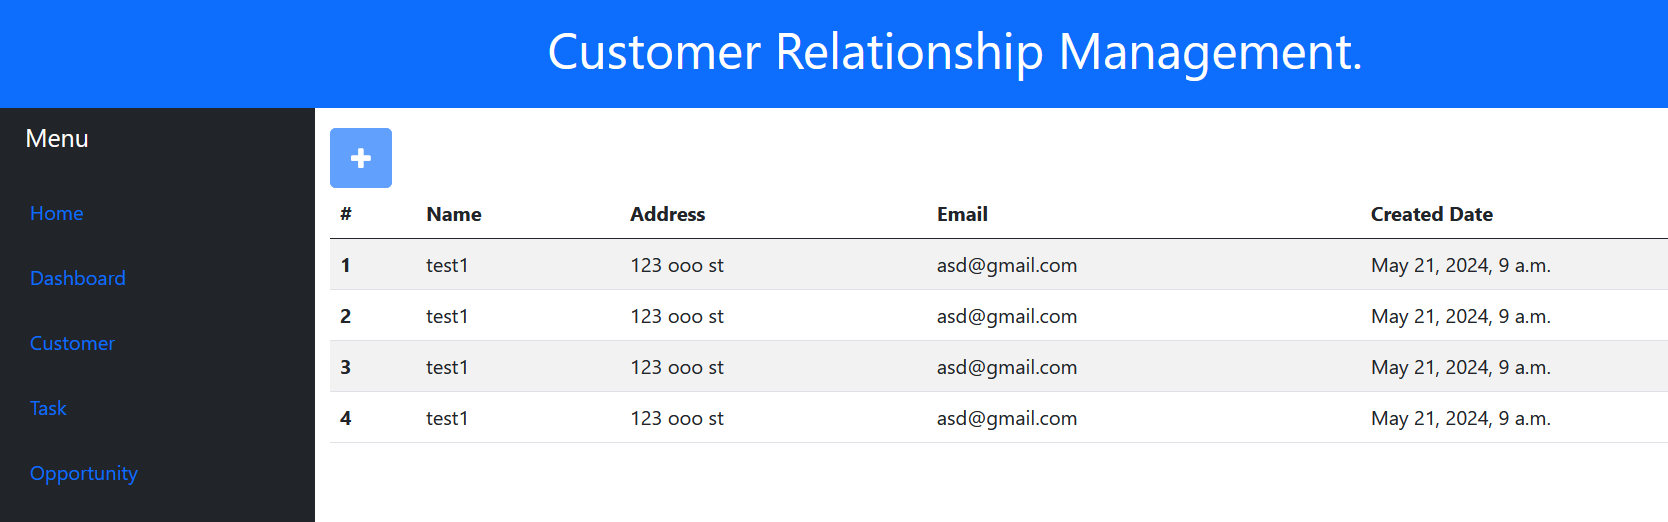
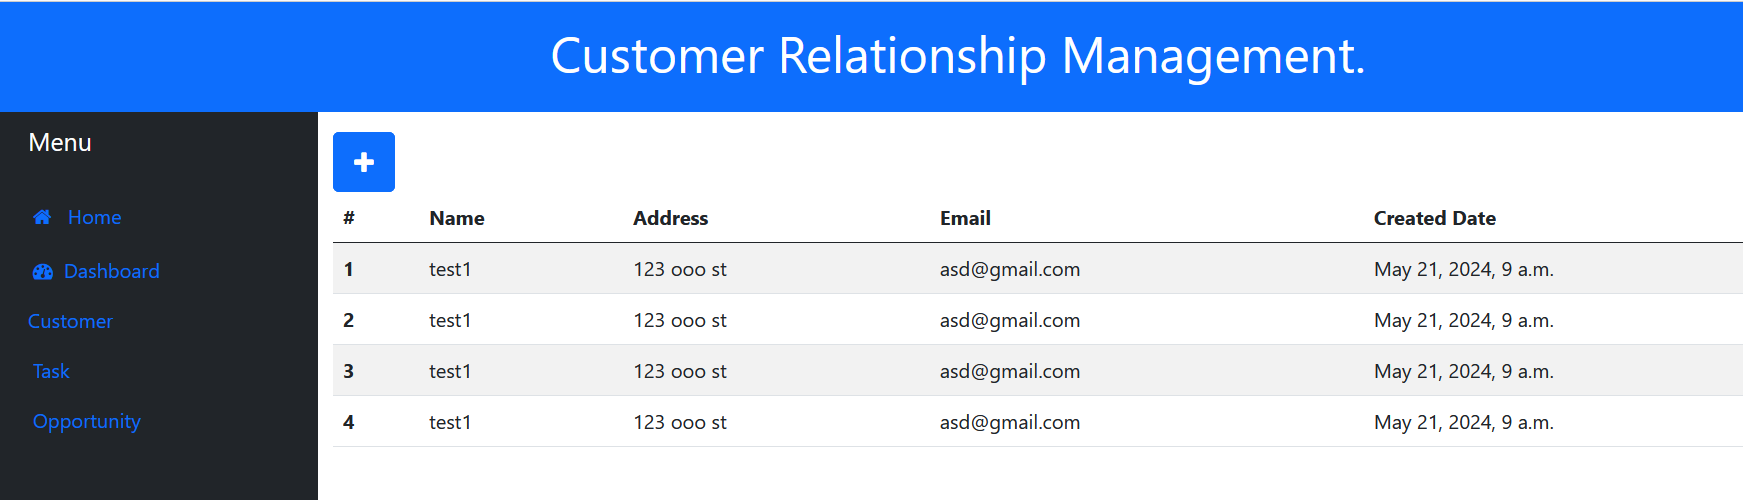
update

diff --git a/README.md b/README.md
@@ -305,30 +305,25 @@ Run the server and open url http://localhost:8000/admin
   <li class="nav-item">
     <a href="#" class="nav-link align-middle px-0">
       <i class="fs-4 bi-house"></i>
-      <span class="ms-1 d-none d-sm-inline">Home</span>
+      <span class="ms-1 d-none d-sm-inline"><i class="fa fa-home" aria-hidden="true"></i> &nbsp; Home</span>
     </a>
   </li>
   <li class="nav-item">
     <a href="/dashboard" class="nav-link align-middle px-0">
-      <i class="fs-4 bi-house"></i>
-      <span class="ms-1 d-none d-sm-inline">Dashboard</span>
+      <span class="ms-1 d-none d-sm-inline"><i class="fa fa-tachometer" aria-hidden="true"></i>&nbsp;
+        Dashboard</span>
     </a>
   </li>
   <li class="nav-item">
-    <a href="/customer" class="nav-link align-middle px-0">
-      <i class="fs-4 bi-house"></i>
-      <span class="ms-1 d-none d-sm-inline">Customer</span>
-    </a>
+    <a href="/customer" class="nav-link align-middle px-0">Customer</a>
   </li>
   <li class="nav-item">
     <a href="#" class="nav-link align-middle px-0">
-      <i class="fs-4 bi-house"></i>
       <span class="ms-1 d-none d-sm-inline">Task</span>
     </a>
   </li>
   <li class="nav-item">
     <a href="/opportunity" class="nav-link align-middle px-0">
-      <i class="fs-4 bi-house"></i>
       <span class="ms-1 d-none d-sm-inline">Opportunity</span>
     </a>
   </li>
@@ -465,6 +460,8 @@ def create_customer(request):
     context = {"form": CustomerForm()}
     return render(request, "create-customer.html", context=context)
 ```
+Result
+![CRM diagram](/assets/images/create-customer.png)
 
 #### 13.3 Update customer page
 
